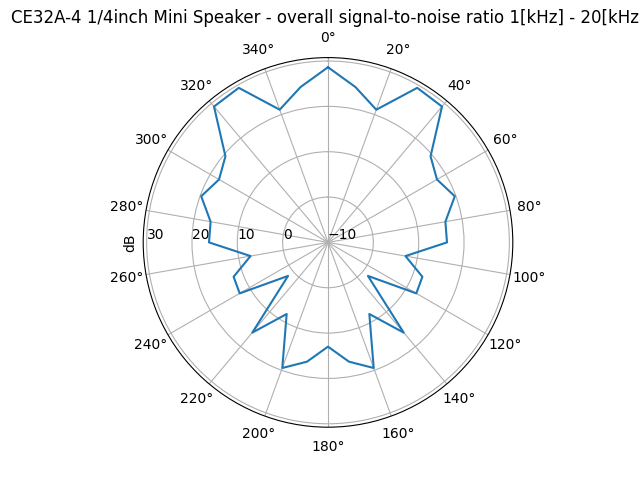
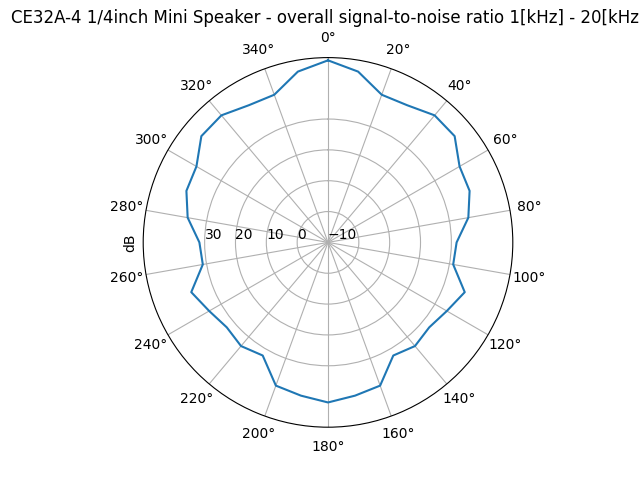
band SNR

diff --git a/measurements/z723/directivity_plots.py b/measurements/z723/directivity_plots.py
@@ -61,16 +61,52 @@ radiance = 4 * np.pi * R * np.abs(Channels_uni)
 theta = np.linspace(0, 350, 36)
 theta = np.append(theta, theta[0])
 
+# %% SNR computation between the sweeps and the noise floor measurements
+
+def calculate_snr(audio, noise):
+
+    # Compute signal power (RMS value squared)
+    P_signal = np.mean(audio**2, axis=1)
+
+    # If noise segment is provided, extract noise power
+    P_noise = np.mean(noise**2, axis=1)
+
+    # Compute SNR in dB
+    SNR = 10 * np.log10(P_signal / P_noise)
+
+    # Noise floor in dBFS (full scale)
+    noise_floor = 10 * np.log10(P_noise)
+
+    return SNR, noise_floor
+
+noises = []
+for i in np.arange(len(noise_files)):
+    noise, fs = soundfile.read(DIR_noise + noise_files[i])
+    noises.append(noise)
+noises = np.array(noises)
+
+# snrs = []
+# for i in np.arange(len(channels)):
+#     snr_value, noise_floor_value = calculate_snr(channels[i], noises[i])
+#     snrs.append(snr_value)
+# snrs = np.array(snrs)
+# snrs = np.append(snrs, snrs[0])
+
+NOISES = fft.fft(noises, n=2048, axis=1)
+NOISES_uni = NOISES[:,0:1024]
+NOISES_uni = np.abs(NOISES_uni)
+
 # %% Radiance display at multiple frequencies
 
 central_freq = np.array([4e3, 6e3, 8e3, 10e3, 12e3, 14e3, 16e3, 18e3])
 BW = 1e3
 
 linestyles = ["-", "--", "-.", ":"]
-
-fig, (ax1, ax2) = plt.subplots(1, 2, subplot_kw={"projection": "polar"},figsize=(12, 8))
+# Create a figure and a set of subplots
+fig, ((ax1, ax2), (ax3, ax4)) = plt.subplots(2, 2, subplot_kw={"projection": "polar"},figsize=(12, 12))
 plt.suptitle("Radiance Pattern - CE32A-4 1/4inch Mini Speaker")
 i = 0
+
 for fc in central_freq[0:4]:
     rad_patt = np.mean(
         radiance[:, (freqs < fc + BW) & (freqs > fc - BW)], axis=1
@@ -78,6 +114,16 @@ for fc in central_freq[0:4]:
     rad_patt_norm = rad_patt / np.max(rad_patt)
     rad_patt_norm_dB = 20 * np.log10(rad_patt_norm)
     rad_patt_norm_dB = np.append(rad_patt_norm_dB, rad_patt_norm_dB[0])
+
+    snrs = []
+    for ii in np.arange(len(Channels_uni)):
+        Channels_uni = np.abs(Channels_uni)
+        snr_value, noise_floor_value = calculate_snr(Channels_uni[:, (freqs < fc + BW) & (freqs > fc - BW)]    
+                                 , NOISES_uni[:, (freqs < fc + BW) & (freqs > fc - BW)])
+        #snrs.append(snr_value)
+    snrs = np.array(snr_value)
+    snrs = np.append(snrs, snrs[0])
+
     if str(fc)[0:2] == '10':
         ax1.plot(
         np.deg2rad(theta),
@@ -93,6 +139,11 @@ for fc in central_freq[0:4]:
         linestyle=linestyles[i],
         )
     i += 1
+    ax3.plot(
+        np.deg2rad(theta),
+        snrs,
+        label=str(fc)[0:1] + " [kHz]",
+        )
 ax1.legend(loc="upper right", bbox_to_anchor=(1.1, 1.1))
 # offset polar axes by -90 degrees
 ax1.set_theta_offset(np.pi / 2)
@@ -104,14 +155,38 @@ ax1.set_xticks(np.linspace(0, 2 * np.pi, 18, endpoint=False))
 ax1.set_yticks(np.linspace(-40, 0, 5))
 ax1.set_rlabel_position(100)
 
+ax3.legend(loc="upper right", bbox_to_anchor=(1.1, 1.1))
+# offset polar axes by -90 degrees
+ax3.set_theta_offset(np.pi / 2)
+# set theta direction to clockwise
+ax3.set_theta_direction(-1)
+# more theta ticks
+ax3.set_xticks(np.linspace(0, 2 * np.pi, 18, endpoint=False))
+# less radial ticks
+ax3.set_yticks(np.linspace(-10, 30, 5))
+ax3.set_rlabel_position(100)
+
 i = 0
 for fc in central_freq[4:8]:
     rad_patt = np.mean(
         radiance[:, (freqs < fc + BW) & (freqs > fc - BW)], axis=1
     )
+    noise_patt = np.mean(
+        NOISES_uni[:, (freqs < fc + BW) & (freqs > fc - BW)], axis=1
+    )
     rad_patt_norm = rad_patt / np.max(rad_patt)
     rad_patt_norm_dB = 20 * np.log10(rad_patt_norm)
     rad_patt_norm_dB = np.append(rad_patt_norm_dB, rad_patt_norm_dB[0])
+    
+    snrs = []
+    for ii in np.arange(len(Channels_uni)):
+        Channels_uni = np.abs(Channels_uni)
+        snr_value, noise_floor_value = calculate_snr(Channels_uni[:, (freqs < fc + BW) & (freqs > fc - BW)]    
+                                 , NOISES_uni[:, (freqs < fc + BW) & (freqs > fc - BW)])
+        #snrs.append(snr_value)
+    snrs = np.array(snr_value)
+    snrs = np.append(snrs, snrs[0])
+
     ax2.plot(
         np.deg2rad(theta),
         rad_patt_norm_dB,
@@ -119,6 +194,11 @@ for fc in central_freq[4:8]:
         linestyle=linestyles[i],
     )
     i += 1
+    ax4.plot(
+        np.deg2rad(theta),
+        snrs,
+        label=str(fc)[0:1] + " [kHz]",
+        )
 ax2.legend(loc="upper right", bbox_to_anchor=(1.1, 1.1))
 # offset polar axes by -90 degrees
 ax2.set_theta_offset(np.pi / 2)
@@ -129,6 +209,17 @@ ax2.set_xticks(np.linspace(0, 2 * np.pi, 18, endpoint=False))
 # less radial ticks
 ax2.set_yticks(np.linspace(-40, 0, 5))
 ax2.set_rlabel_position(100)
+
+ax4.legend(loc="upper right", bbox_to_anchor=(1.1, 1.1))
+# offset polar axes by -90 degrees
+ax4.set_theta_offset(np.pi / 2)
+# set theta direction to clockwise
+ax4.set_theta_direction(-1)
+# more theta ticks
+ax4.set_xticks(np.linspace(0, 2 * np.pi, 18, endpoint=False))
+# less radial ticks
+ax4.set_yticks(np.linspace(-10, 30, 5))
+ax4.set_rlabel_position(100)
 
 plt.tight_layout()
 plt.show()
@@ -162,7 +253,7 @@ plt.show()
 #save figure
 fig.savefig("radiance_overall.png")
 
-# %% Plot of the collected data
+# %% Plot of the noise data
 
 fig, axs = plt.subplots(6, 6, figsize=(20, 20))
 
@@ -184,9 +275,11 @@ for i in range(6):
 plt.tight_layout()
 plt.show(block=False)
 # save figure
-fig.savefig("noise.png")
+fig.savefig("noises.png")
 
-# %% SNR computation between the sweeps and the noise floor measurements
+
+#%% overall SNR computation
+
 
 def calculate_snr(audio, noise):
 
@@ -204,18 +297,7 @@ def calculate_snr(audio, noise):
 
     return SNR, noise_floor
 
-noises = []
-for i in np.arange(len(noise_files)):
-    noise, fs = soundfile.read(DIR_noise + noise_files[i])
-    noises.append(noise)
-noises = np.array(noises)
 
-snrs = []
-for i in np.arange(len(channels)):
-    snr_value, noise_floor_value = calculate_snr(channels[i], noises[i])
-    snrs.append(snr_value)
-snrs = np.array(snrs)
-snrs = np.append(snrs, snrs[0])
 
 fig, ax = plt.subplots(subplot_kw={"projection": "polar"})
 ax.plot(np.deg2rad(theta), snrs)
